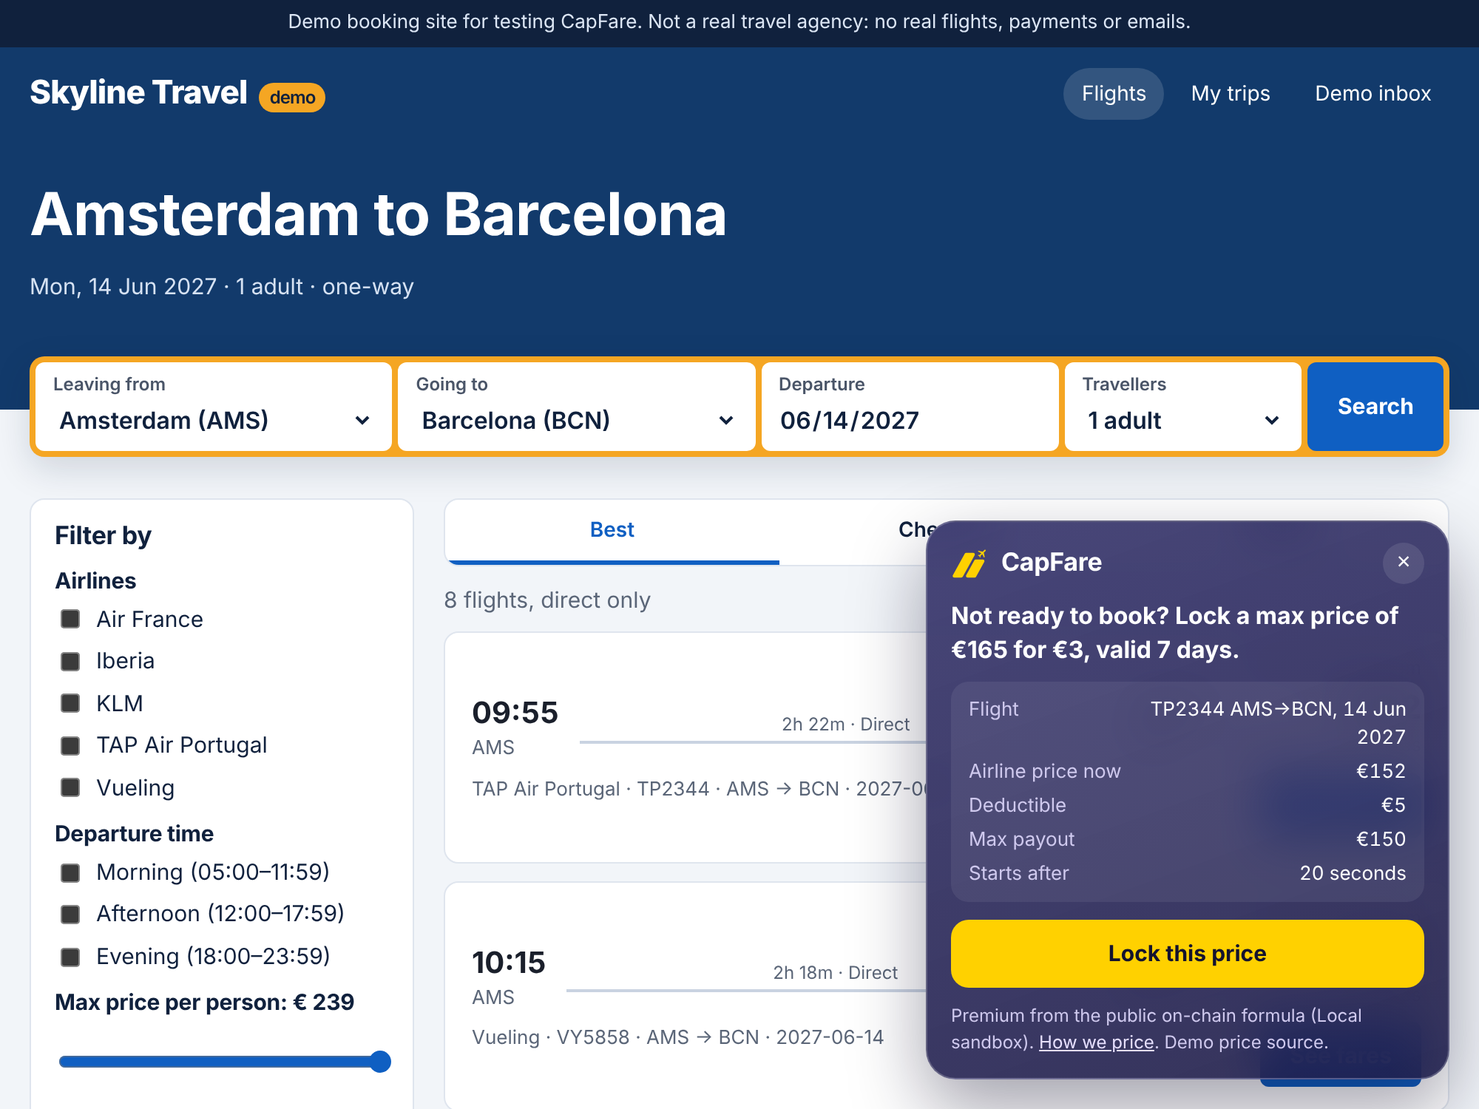
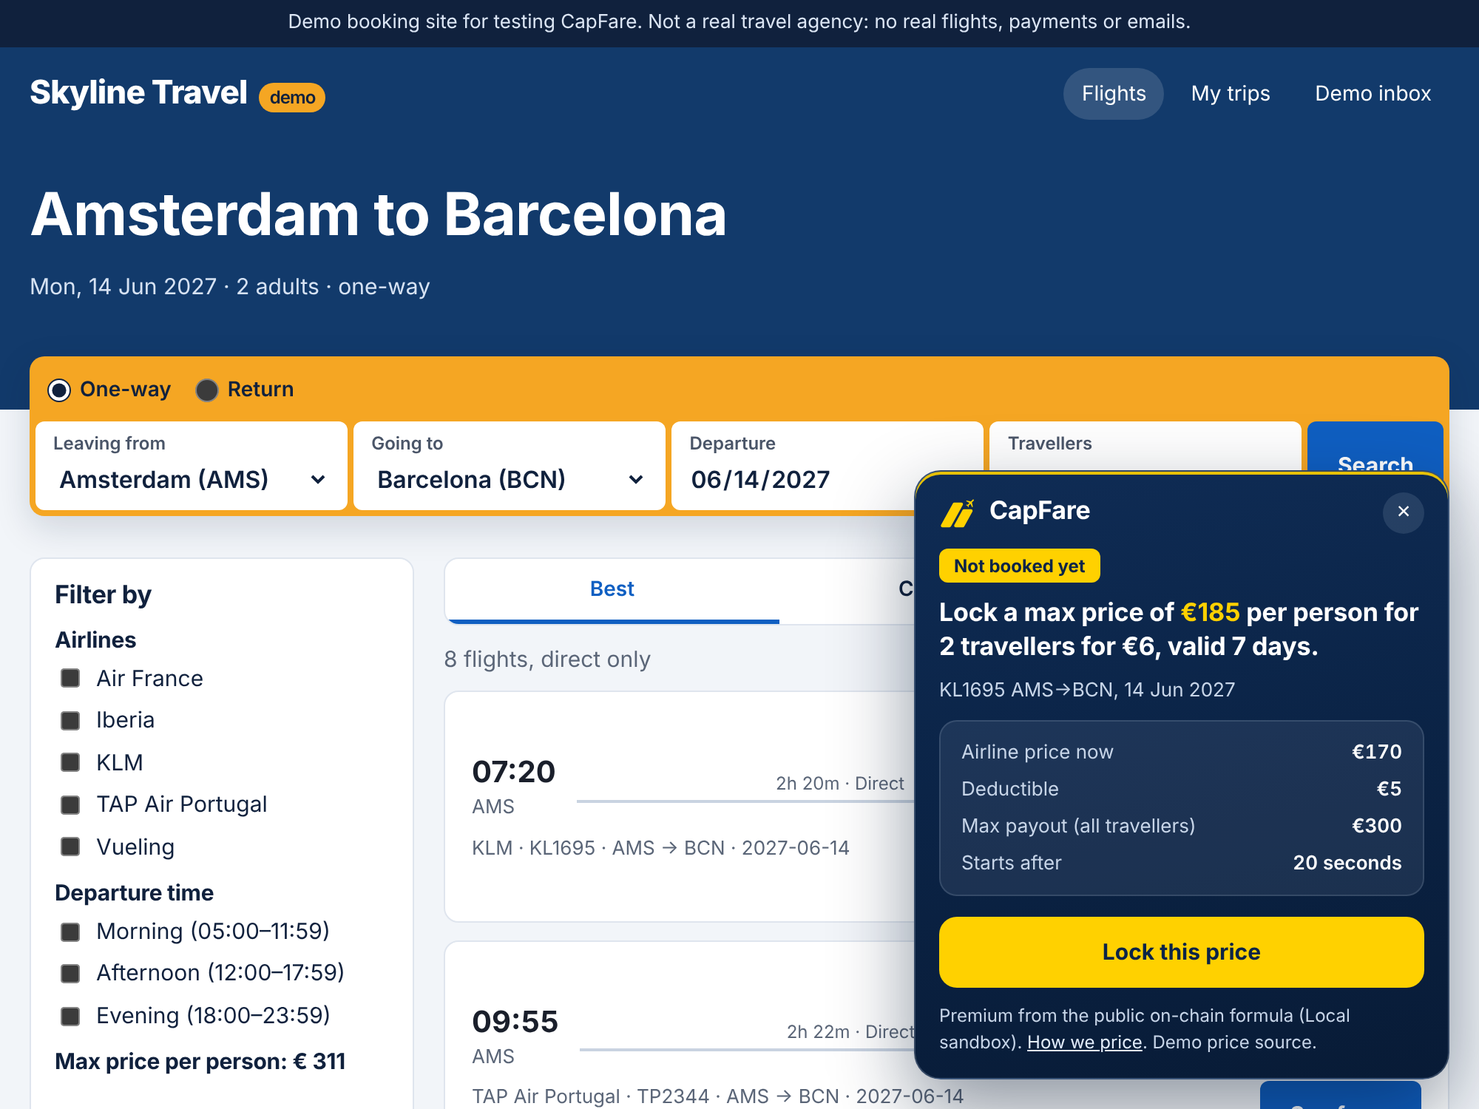
Extension in the landing page's navy and yellow; refreshed landing screenshots
- Overlay and popup restyled to the landing palette (navy #0b2447/#081b36,
  light-blue secondary text, yellow #ffd100 actions and tags), with a status
  tag ("Not booked yet" / "Just booked" / "Booked with CapFare?") like the
  product cards; the cap amount is highlighted, the flight sits on its own line.
- The overlay passes the number of travellers (search or booking page) to the
  quote and to the hand-off link, and shows per-person cap and total payout.
- Fix: the extension's tsconfig was missing DOM.Iterable (typecheck failed).
- Landing "How it works" screenshots (web/public/how) recaptured from the built
  extension, now showing a two-traveller search and booking; docs landing shots
  refreshed; landing copy (EN/NL) mentions route cover, return trips,
  travellers and alerts.

Claude-Session: https://claude.ai/code/session_01Cfr65nL9uadZ6t7mZFCQ4d

diff --git a/extension/src/overlay.ts b/extension/src/overlay.ts
@@ -10,6 +10,7 @@ export interface QuoteView {
   validity_days: number;
   demo_price: boolean;
   network: string;
+  travellers?: number;
 }
 
 const eur = (c: number) => `€${(c / 100).toFixed(c % 100 ? 2 : 0)}`;
@@ -21,45 +22,53 @@ function delay(s: number) {
 
 const MARK = `<svg width="26" height="20" viewBox="0 0 104 80" aria-hidden="true"><g fill="#FFD100" stroke="#FFD100" stroke-width="9" stroke-linejoin="round"><path d="M9 74 L41 16 L60 16 L28 74 Z"/><path d="M45 74 L67 34 L86 34 L64 74 Z"/></g><g transform="translate(70 -2) rotate(45 15 15) scale(1.25)" fill="#FFD100"><path d="M21 16v-2l-8-5V3.5c0-.83-.67-1.5-1.5-1.5S10 2.67 10 3.5V9l-8 5v2l8-2.5V19l-2 1.5V22l3.5-1 3.5 1v-1.5L13 19v-5.5l8 2.5z"/></g></svg>`;
 
+/* Navy and yellow, matching the CapFare landing page (web/app/globals.css, .landing). */
 const CSS = `
 :host { all: initial; }
-.box { position: fixed; right: 20px; bottom: 20px; z-index: 2147483647; width: 352px; max-width: calc(100vw - 40px);
+.box { position: fixed; right: 20px; bottom: 20px; z-index: 2147483647; width: 360px; max-width: calc(100vw - 40px);
   font: 15px/1.45 system-ui, -apple-system, "Segoe UI", sans-serif; color: #fff;
-  background: linear-gradient(160deg, rgba(42, 40, 99, 0.86), rgba(30, 28, 72, 0.9));
-  border: 1px solid rgba(255,255,255,.22); border-radius: 20px; overflow: hidden;
-  backdrop-filter: blur(16px) saturate(1.15); -webkit-backdrop-filter: blur(16px) saturate(1.15);
-  box-shadow: 0 20px 50px rgba(10, 8, 36, .38); }
-.head { display: flex; align-items: center; justify-content: space-between; padding: 14px 16px 4px; font-weight: 700; font-size: 17px; letter-spacing: -.01em; }
-.brand { display: inline-flex; align-items: center; gap: 8px; }
-.close { background: rgba(255,255,255,.1); border: 0; color: #fff; font-size: 16px; cursor: pointer; line-height: 1; width: 28px; height: 28px; border-radius: 999px; }
-.body { padding: 6px 16px 16px; }
-.lead { font-size: 16px; font-weight: 700; margin: 0 0 10px; }
-dl { display: grid; grid-template-columns: auto 1fr; gap: 4px 12px; margin: 0 0 12px; font-size: 13px; padding: 10px 12px; background: rgba(255,255,255,.07); border-radius: 12px; }
-dt { color: #cfc9ee; } dd { margin: 0; text-align: right; font-variant-numeric: tabular-nums; }
-.cta { display: block; text-align: center; background: #ffd100; color: #14132e; font-weight: 700; text-decoration: none; padding: 12px; border-radius: 12px; }
+  background: linear-gradient(170deg, #0f2c55 0%, #0b2447 46%, #081b36 100%);
+  border: 1px solid rgba(211, 227, 249, 0.22); border-radius: 18px; overflow: hidden;
+  box-shadow: 0 22px 54px rgba(5, 22, 47, 0.45), 0 2px 0 rgba(255, 209, 0, 0.9) inset; }
+.head { display: flex; align-items: center; justify-content: space-between; padding: 14px 16px 6px; }
+.brand { display: inline-flex; align-items: center; gap: 8px; font: 700 17px/1 "Outfit", system-ui, sans-serif; letter-spacing: -0.01em; }
+.close { background: rgba(211, 227, 249, 0.12); border: 0; color: #fff; font-size: 16px; cursor: pointer; line-height: 1; width: 28px; height: 28px; border-radius: 999px; }
+.close:hover { background: rgba(211, 227, 249, 0.22); }
+.body { padding: 4px 16px 16px; }
+.when { display: inline-block; margin: 0 0 10px; padding: 3px 10px; border-radius: 6px; background: #ffd100; color: #0b2447; font-weight: 650; font-size: 12px; }
+.lead { font: 700 17px/1.35 "Outfit", system-ui, sans-serif; margin: 0 0 12px; letter-spacing: -0.005em; }
+.lead em { font-style: normal; color: #ffd100; }
+.f { margin: -4px 0 10px; font-size: 13px; color: #c7d5e8; }
+dl { display: grid; grid-template-columns: auto 1fr; gap: 6px 12px; margin: 0 0 14px; font-size: 13px; padding: 12px 14px; background: rgba(211, 227, 249, 0.09); border: 1px solid rgba(211, 227, 249, 0.14); border-radius: 12px; }
+dt { color: #c7d5e8; white-space: nowrap; } dd { margin: 0; text-align: right; font-variant-numeric: tabular-nums; font-weight: 600; white-space: nowrap; }
+.cta { display: block; text-align: center; background: #ffd100; color: #0b2447; font-weight: 700; text-decoration: none; padding: 13px; border-radius: 12px; }
 .cta:hover { background: #ffdc3d; }
 .cta:focus-visible, .close:focus-visible, a:focus-visible { outline: 3px solid #ffd100; outline-offset: 2px; }
-.small { font-size: 12px; color: #cfc9ee; margin: 10px 0 0; }
-.small a { color: #e6dfff; }
+.small { font-size: 12px; color: #c7d5e8; margin: 10px 0 0; }
+.small a { color: #e3edfc; }
 `;
 
 export function renderOverlay(kind: "cap" | "drop", q: QuoteView, appUrl: string, href: string): HTMLElement {
   const host = document.createElement("capfare-overlay");
   const root = host.attachShadow({ mode: "closed" });
-  const lead =
+  const n = q.travellers ?? 1;
+  const who = n > 1 ? ` for ${n} travellers` : "";
+  // Text only (no page data is ever inserted as HTML): [plain, highlighted, plain].
+  const lead: [string, string, string] =
     kind === "cap"
-      ? `Not ready to book? Lock a max price of ${eur(q.cap_minor!)} for ${eur(q.premium_minor)}, valid ${q.validity_days} days.`
-      : `Booked at ${eur(q.price_minor)}. Add a Drop Guarantee for ${eur(q.premium_minor)}.`;
+      ? ["Lock a max price of ", eur(q.cap_minor!), ` per person${who} for ${eur(q.premium_minor)}, valid ${q.validity_days} days.`]
+      : ["Booked at ", eur(q.price_minor), `${n > 1 ? " per person" : ""}. If the price drops within the week, get the difference${who} for ${eur(q.premium_minor)}.`];
   root.innerHTML = `<style>${CSS}</style>
   <section class="box" role="dialog" aria-label="CapFare price protection">
     <div class="head"><span class="brand">${MARK}CapFare</span><button class="close" aria-label="Close">×</button></div>
     <div class="body">
-      <p class="lead"></p>
+      <span class="when"></span>
+      <p class="lead"><span></span><em></em><span></span></p>
+      <p class="f"></p>
       <dl>
-        <dt>Flight</dt><dd class="f"></dd>
         <dt>Airline price now</dt><dd class="p"></dd>
         <dt>Deductible</dt><dd class="d"></dd>
-        <dt>Max payout</dt><dd class="m"></dd>
+        <dt>Max payout${n > 1 ? " (all travellers)" : ""}</dt><dd class="m"></dd>
         ${kind === "cap" ? `<dt>Starts after</dt><dd class="a"></dd>` : ""}
       </dl>
       <a class="cta" target="_blank" rel="noopener"></a>
@@ -67,7 +76,11 @@ export function renderOverlay(kind: "cap" | "drop", q: QuoteView, appUrl: string
     </div>
   </section>`;
   const $ = (s: string) => root.querySelector(s) as HTMLElement;
-  $(".lead").textContent = lead;
+  $(".when").textContent = kind === "cap" ? "Not booked yet" : "Just booked";
+  const [a, b, c] = Array.from(root.querySelectorAll(".lead > *"));
+  a.textContent = lead[0];
+  b.textContent = lead[1];
+  c.textContent = lead[2];
   $(".f").textContent = q.flight_label;
   $(".p").textContent = eur(q.price_minor);
   $(".d").textContent = eur(q.deductible_minor);
@@ -89,7 +102,8 @@ export function renderVerifyOverlay(appUrl: string, pageUrl: string): HTMLElemen
   <section class="box" role="dialog" aria-label="CapFare booking check">
     <div class="head"><span class="brand">${MARK}CapFare</span><button class="close" aria-label="Close">×</button></div>
     <div class="body">
-      <p class="lead">Protected this flight with CapFare? Verify the booking straight from this page.</p>
+      <span class="when">Booked with CapFare?</span>
+      <p class="lead">Verify this booking straight from the page.</p>
       <p class="small" style="margin:0 0 12px">CapFare's checker loads this booking page from the booking site and reads only the flight, fare, price and status. Works for claims and for the final check of refundable tickets.</p>
       <a class="cta" target="_blank" rel="noopener">Verify with CapFare</a>
     </div>

diff --git a/extension/static/popup.html b/extension/static/popup.html
@@ -1,11 +1,24 @@
 <!doctype html>
 <html lang="en">
 <head><meta charset="utf-8"><title>CapFare</title>
-<style>body{font:14px/1.45 system-ui,sans-serif;width:280px;margin:0;padding:14px;color:#1e2228}h1{font-size:16px;margin:0 0 8px}a{color:#1d5fd1}p{margin:0 0 8px}.t{font-size:12px;color:#5a626e}</style></head>
-<body>
-<h1>CapFare (testnet)</h1>
-<p>On supported booking pages, CapFare shows what it costs to lock a maximum price for that exact flight.</p>
-<p><a id="app" target="_blank" rel="noopener">Open CapFare</a></p>
+<style>
+  body { font: 14px/1.45 system-ui, -apple-system, "Segoe UI", sans-serif; width: 300px; margin: 0; color: #fff;
+    background: linear-gradient(170deg, #0f2c55 0%, #0b2447 46%, #081b36 100%); border-top: 2px solid #ffd100; }
+  .in { padding: 16px; }
+  h1 { display: flex; align-items: center; gap: 8px; font: 700 17px/1 "Outfit", system-ui, sans-serif; margin: 0 0 4px; }
+  .tag { display: inline-block; margin: 0 0 12px; padding: 2px 8px; border-radius: 6px; background: #ffd100; color: #0b2447; font-weight: 650; font-size: 11px; }
+  p { margin: 0 0 10px; }
+  .cta { display: block; text-align: center; background: #ffd100; color: #0b2447; font-weight: 700; text-decoration: none; padding: 11px; border-radius: 12px; margin: 14px 0 12px; }
+  .cta:hover { background: #ffdc3d; }
+  .cta:focus-visible { outline: 3px solid #ffd100; outline-offset: 2px; }
+  .t { font-size: 12px; color: #c7d5e8; padding: 10px 12px; background: rgba(211, 227, 249, 0.09); border: 1px solid rgba(211, 227, 249, 0.14); border-radius: 12px; margin: 0; }
+</style></head>
+<body><div class="in">
+<h1><svg width="26" height="20" viewBox="0 0 104 80" aria-hidden="true"><g fill="#FFD100" stroke="#FFD100" stroke-width="9" stroke-linejoin="round"><path d="M9 74 L41 16 L60 16 L28 74 Z"/><path d="M45 74 L67 34 L86 34 L64 74 Z"/></g><g transform="translate(70 -2) rotate(45 15 15) scale(1.25)" fill="#FFD100"><path d="M21 16v-2l-8-5V3.5c0-.83-.67-1.5-1.5-1.5S10 2.67 10 3.5V9l-8 5v2l8-2.5V19l-2 1.5V22l3.5-1 3.5 1v-1.5L13 19v-5.5l8 2.5z"/></g></svg>CapFare</h1>
+<span class="tag">Testnet</span>
+<p>On supported booking pages, CapFare shows what it costs to lock a maximum price for that flight (or protect a booking against a drop), for everyone travelling.</p>
+<a class="cta" id="app" target="_blank" rel="noopener">Open CapFare</a>
 <p class="t">Supported now: Skyline Travel, the CapFare demo booking site. The extension reads only those pages, sends no analytics and never sees your bookings.</p>
+</div>
 <script src="popup.js"></script>
 </body></html>

diff --git a/web/lib/i18n/nl.ts b/web/lib/i18n/nl.ts
@@ -13,7 +13,7 @@ export const nl: Dict = {
   hero: {
     h1a: "Bescherm je vluchtprijs.",
     h1b: "Voor en na het boeken.",
-    sub: "Zet vooraf een prijsplafond vast of bescherm je tegen een prijsdaling na het boeken. Voor één exacte vlucht, datum en tariefklasse, met een vooraf afgesproken eigen risico en uitbetalingslimiet.",
+    sub: "Zet vooraf een prijsplafond vast of bescherm je tegen een prijsdaling na het boeken. Voor één exacte vlucht of elke vlucht op een route en dag, enkele reis of retour, voor iedereen op de boeking, met een vooraf afgesproken eigen risico en uitbetalingslimiet.",
     ctaChrome: "Download de extensie",
     ctaCheck: "Check een vlucht",
     chromeNote: "Laad de Chrome-extensie vanuit de repository.",
@@ -47,6 +47,7 @@ export const nl: Dict = {
         points: (d: number): string[] => [
           "Je ziet het plafond, de premie, het eigen risico (€ " + (d / 100).toFixed(0) + ") en de maximale uitbetaling voordat je betaalt.",
           "Het plafond geldt 7 dagen en gaat in na een korte wachttijd.",
+          "Samen op reis of retour? Eén plafond dekt tot 9 reizigers, en beide vluchten van een retour.",
           "Geen extensie? Met Check een vlucht op deze website doe je hetzelfde op je telefoon.",
         ],
       },
@@ -55,6 +56,7 @@ export const nl: Dict = {
         points: (_d: number): string[] => [
           "De dekking hoort bij de vlucht, niet bij de website.",
           "Je boeking zelf blijft tussen jou en de airline.",
+          "Meldingen via push of e-mail laten weten wanneer de prijs boven je plafond komt, zodat je weet wanneer je moet boeken.",
         ],
       },
       {
@@ -127,7 +129,7 @@ export const nl: Dict = {
   fine: {
     title: "De kleine lettertjes, in gewone taal",
     items: [
-      "De dekking geldt voor één exacte vlucht, datum, tariefklasse en route. Een andere vlucht of tariefklasse valt er niet onder.",
+      "De dekking geldt voor één exacte vlucht, datum, tariefklasse en route, of (routedekking) elke vlucht die CapFare op die route en dag volgt in die tariefklasse, uitbetaald tegen het goedkoopste tarief. Iets anders valt er niet onder.",
       (h: number) => `Een prijsplafond gaat ${h === 1 ? "1 uur" : `${h} uur`} na aankoop in. Boekingen van daarvoor tellen niet mee.`,
       "Van elke uitbetaling gaat een eigen risico af, en elke polis heeft een maximale uitbetaling. Je ziet beide voordat je betaalt.",
       (refund: boolean) =>

diff --git a/web/lib/i18n/en.ts b/web/lib/i18n/en.ts
@@ -11,7 +11,7 @@ export const en = {
   hero: {
     h1a: "Protect your flight price.",
     h1b: "Before and after booking.",
-    sub: "Set a price cap before you book, or cover a price drop after. Protection follows one exact flight, date and fare class, with a deductible and payout limit agreed upfront.",
+    sub: "Set a price cap before you book, or cover a price drop after. Protect one exact flight or any flight on a route and day, one-way or return, for everyone on the booking, with a deductible and payout limit agreed upfront.",
     ctaChrome: "Get the extension",
     ctaCheck: "Check a flight",
     chromeNote: "Chrome extension: load it unpacked from the repository while it is in review.",
@@ -45,6 +45,7 @@ export const en = {
         points: (d: number): string[] => [
           "You see the cap, premium, deductible (" + "€" + (d / 100).toFixed(0) + ") and maximum payout before you pay.",
           "The lock lasts 7 days and starts after a short activation delay.",
+          "Travelling together or returning? One lock covers up to 9 travellers, and both flights of a return trip.",
           "No extension? Check a flight on this website does the same on your phone.",
         ],
       },
@@ -53,6 +54,7 @@ export const en = {
         points: (_d: number): string[] => [
           "Coverage follows the flight, not the website.",
           "Your booking itself stays between you and the airline.",
+          "Alerts by push or email tell you when the price passes your cap, so you know when to book.",
         ],
       },
       {
@@ -124,7 +126,7 @@ export const en = {
   fine: {
     title: "Policy details",
     items: [
-      "Coverage is for one exact flight, date, fare class and airport pair. A different flight or fare class is not covered.",
+      "Coverage is for one exact flight, date, fare class and airport pair, or (route cover) any flight CapFare tracks on that route and day in that fare class, paid against the cheapest fare. Anything else is not covered.",
       (h: number): string => `A Price Cap starts ${h === 1 ? "1 hour" : `${h} hours`} after you buy it. Bookings made before that do not count.`,
       "A deductible is taken off every payout, and each policy has a maximum payout. Both are shown before you pay.",
       (refund: boolean): string =>

diff --git a/extension/src/adapters/skyline.ts b/extension/src/adapters/skyline.ts
@@ -19,6 +19,11 @@ function base(root: Element): Omit<ExtractedFlight, "fare_class" | "displayed_pr
   return fn && r && d ? { flight_number: fn, departure_date: d, origin: r[1], destination: r[2] } : null;
 }
 
+const paxOf = (url: URL, facts?: Element | null): number | undefined => {
+  const n = Number(text(facts?.querySelector('[data-k="pax"]')) || url.searchParams.get("pax") || "");
+  return Number.isInteger(n) && n > 0 ? n : undefined;
+};
+
 export const skylineSite: SiteAdapter = {
   id: "skyline-travel-demo",
   matches: (u) => u.pathname.startsWith("/booker"),
@@ -30,7 +35,7 @@ export const skylineSite: SiteAdapter = {
       const b = base(facts);
       if (!b) return null;
       const f: ExtractedFlight = { ...b, fare_class: FARES[text(facts.querySelector(".fare-name")).toLowerCase()] ?? "economy_light", displayed_price_minor: parseEuro(text(facts.querySelector(".fare-price"))) };
-      return { kind: manage ? "manage" : "confirmation", flights: [f] };
+      return { kind: manage ? "manage" : "confirmation", flights: [f], travellers: paxOf(url, facts) };
     }
     const detail = doc.querySelector(".sk-flight-detail");
     if (detail) {
@@ -39,7 +44,7 @@ export const skylineSite: SiteAdapter = {
       const flights = [...doc.querySelectorAll(".sk-fare")]
         .map((el) => ({ ...b, fare_class: FARES[text(el.querySelector(".sk-fare-name")).toLowerCase()] ?? "", displayed_price_minor: parseEuro(text(el.querySelector(".sk-fare-price"))) }))
         .filter((f) => f.fare_class && f.displayed_price_minor !== undefined);
-      return { kind: "details", flights };
+      return { kind: "details", flights, travellers: paxOf(url) };
     }
     const cards = [...doc.querySelectorAll(".sk-flight")];
     if (!cards.length) return null;
@@ -49,7 +54,6 @@ export const skylineSite: SiteAdapter = {
         return b ? { ...b, fare_class: "economy_light", displayed_price_minor: parseEuro(text(c.querySelector(".sk-price"))) } : null;
       })
       .filter(Boolean) as ExtractedFlight[];
-    void url;
-    return { kind: "search", flights } as PageExtraction;
+    return { kind: "search", flights, travellers: paxOf(url) } as PageExtraction;
   },
 };

diff --git a/scripts/src/extension-shots.ts b/scripts/src/extension-shots.ts
@@ -40,12 +40,12 @@ async function shot(path: string, file: string, clip?: { x: number; y: number; w
 }
 const CLIP1 = process.env.CLIP1 ? JSON.parse(process.env.CLIP1) : undefined;
 const CLIP2 = process.env.CLIP2 ? JSON.parse(process.env.CLIP2) : undefined;
-await shot("/booker/results?from=AMS&to=BCN&date=2027-06-14&pax=1", "1-lock.png", CLIP1);
+await shot("/booker/results?from=AMS&to=BCN&date=2027-06-14&pax=2", "1-lock.png", CLIP1);
 // A demo booking on Skyline Travel (demo) to show the confirmation-page offer.
 const booking = (await (await fetch(`${APP}/api/booker/bookings`, {
   method: "POST",
   headers: { "content-type": "application/json" },
-  body: JSON.stringify({ fn: "KL1695", from: "AMS", to: "BCN", date: "2027-06-14", fare: "economy_standard", passengers: [{ title: "Ms", first: "Anna", last: "de Vries" }], email: "anna@example.org", card: "4242424242424242" }),
+  body: JSON.stringify({ fn: "KL1695", from: "AMS", to: "BCN", date: "2027-06-14", fare: "economy_standard", passengers: [{ title: "Ms", first: "Anna", last: "de Vries" }, { title: "Mr", first: "Bram", last: "de Vries" }], email: "anna@example.org", card: "4242424242424242" }),
 })).json()) as { ref: string; token: string };
 await shot(`/booker/confirmation?ref=${booking.ref}&t=${booking.token}`, "2-book.png", CLIP2);
 await shot(`/booker/manage?ref=${booking.ref}&t=${booking.token}`, "4-verify.png", CLIP2);

diff --git a/extension/src/content.ts b/extension/src/content.ts
@@ -20,7 +20,8 @@ async function run() {
   const f: ExtractedFlight = page.flights.slice().sort((a, b) => (a.displayed_price_minor ?? 1e12) - (b.displayed_price_minor ?? 1e12))[0];
   const product = page.kind === "confirmation" ? "drop" : "cap";
   const { url: app } = await ask<{ url: string }>({ type: "app-url" });
-  const r = await ask<{ ok: boolean; data: QuoteView & { error?: string } }>({ type: "quote", flight: f, product });
+  const travellers = page.travellers ?? 1;
+  const r = await ask<{ ok: boolean; data: QuoteView & { error?: string } }>({ type: "quote", flight: f, product, travellers });
   if (!r?.ok) return; // no price source for this flight: stay silent
   const q = new URLSearchParams({
     fn: f.flight_number,
@@ -29,6 +30,7 @@ async function run() {
     to: f.destination,
     fare: f.fare_class,
     product,
+    ...(travellers > 1 ? { pax: String(travellers) } : {}),
     ...(f.displayed_price_minor ? { hint: String(f.displayed_price_minor) } : {}),
   });
   const view = product === "drop" ? { ...r.data, price_minor: f.displayed_price_minor ?? r.data.price_minor } : r.data;

diff --git a/extension/src/background.ts b/extension/src/background.ts
@@ -1,12 +1,12 @@
 /** Service worker: talks to the CapFare app API (content scripts cannot, due to page CORS). */
 declare const __APP_URL__: string;
 
-chrome.runtime.onMessage.addListener((msg: { type: string; flight?: unknown; product?: string }, _sender, reply) => {
+chrome.runtime.onMessage.addListener((msg: { type: string; flight?: unknown; product?: string; travellers?: number }, _sender, reply) => {
   if (msg.type === "quote") {
     fetch(`${__APP_URL__}/api/ext/quote`, {
       method: "POST",
       headers: { "content-type": "application/json" },
-      body: JSON.stringify({ flight: msg.flight, product: msg.product ?? "cap" }),
+      body: JSON.stringify({ flight: msg.flight, product: msg.product ?? "cap", travellers: msg.travellers ?? 1 }),
     })
       .then(async (r) => reply({ ok: r.ok, data: await r.json() }))
       .catch((e) => reply({ ok: false, data: { error: String(e) } }));

diff --git a/extension/test/adapters.test.ts b/extension/test/adapters.test.ts
@@ -29,6 +29,12 @@ describe("Skyline Travel (demo) adapter, saved HTML snapshots", () => {
     expect(r.flights[0]).toMatchObject({ flight_number: "KL1695", fare_class: "economy_standard" });
     expect(r.flights[0].displayed_price_minor).toBeGreaterThan(0);
   });
+  it("travellers: from the search and from the booking", () => {
+    const url = u("/booker/results?from=AMS&to=BCN&date=2027-06-14&pax=3");
+    expect(adapterFor(url)!.extract(load("search.html"), url)!.travellers).toBe(3);
+    const conf = u("/booker/confirmation");
+    expect(adapterFor(conf)!.extract(load("confirmation.html"), conf)!.travellers).toBe(1);
+  });
   it("manage page is recognised (offers the live check)", () => {
     const url = u("/booker/manage");
     expect(adapterFor(url)!.extract(load("manage.html"), url)!.kind).toBe("manage");

diff --git a/web/app/booker/results/page.tsx b/web/app/booker/results/page.tsx
@@ -23,7 +23,7 @@ export default async function Page({ searchParams }: { searchParams: Promise<Rec
         <div className="sk-wrap">
           <h1>{t.leg === 2 ? "Choose your return flight" : t.ret ? "Choose your outbound flight" : `${city(leg.from)} to ${city(leg.to)}`}</h1>
           <p>
-            {city(leg.from)} to {city(leg.to)} · {longDate(leg.date)} · {t.pax} adult{t.pax > 1 ? "s" : ""} · {t.ret ? (t.leg === 2 ? "return flight" : `return, back ${longDate(t.ret)}`) : "one-way"}
+            {t.ret ? `${city(leg.from)} to ${city(leg.to)} · ` : ""}{longDate(leg.date)} · {t.pax} adult{t.pax > 1 ? "s" : ""} · {t.ret ? (t.leg === 2 ? "return flight" : `return, back ${longDate(t.ret)}`) : "one-way"}
           </p>
         </div>
       </section>

diff --git a/extension/src/adapters/types.ts b/extension/src/adapters/types.ts
@@ -12,6 +12,8 @@ export interface ExtractedFlight {
 export interface PageExtraction {
   kind: "search" | "details" | "confirmation" | "manage";
   flights: ExtractedFlight[];
+  /** Travellers in the search or on the booking, if the page shows it. */
+  travellers?: number;
 }
 
 export interface SiteAdapter {
